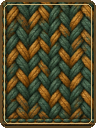
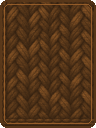
art(turkic-jam): repaint card back/selected, retune button tints
Art-agent pass: redrawn ui_card_back and ui_card_selected raw sprites
(same 96x128 region names — atlas header unchanged, pack rebuilds from raw)
and adjusted secondary/danger button tints in tj_button.

diff --git a/games/turkic-jam-2026/src/ui_kit.c b/games/turkic-jam-2026/src/ui_kit.c
@@ -46,9 +46,9 @@ static const nt_ui_label_style_t s_btn_label = {
 bool tj_button(game_ctx_t *g, const char *id_str, const char *text, int w, int h, tj_btn_variant_t variant) {
     uint32_t tint = 0xFFFFFFFF;
     if (variant == TJ_BTN_SECONDARY) {
-        tint = 0xF6B8B86EU;
+        tint = 0xFF3A5A8AU;
     } else if (variant == TJ_BTN_DANGER) {
-        tint = 0xFF253A8FU;
+        tint = 0xFF283A9CU;
     }
 
     /* Only idle.atlas is set; other states inherit it (atlas.id == 0). */
